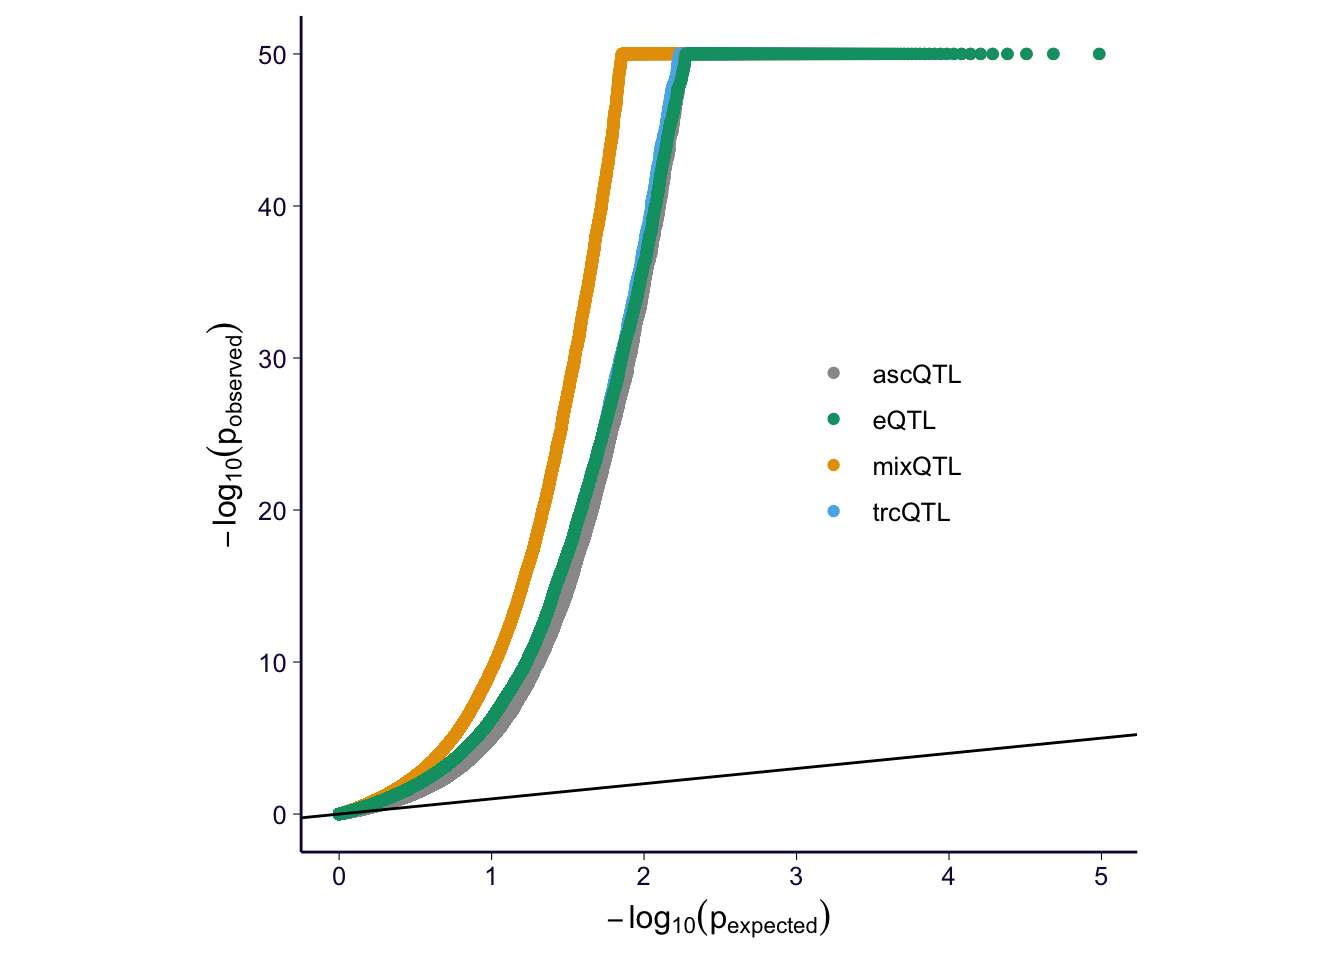
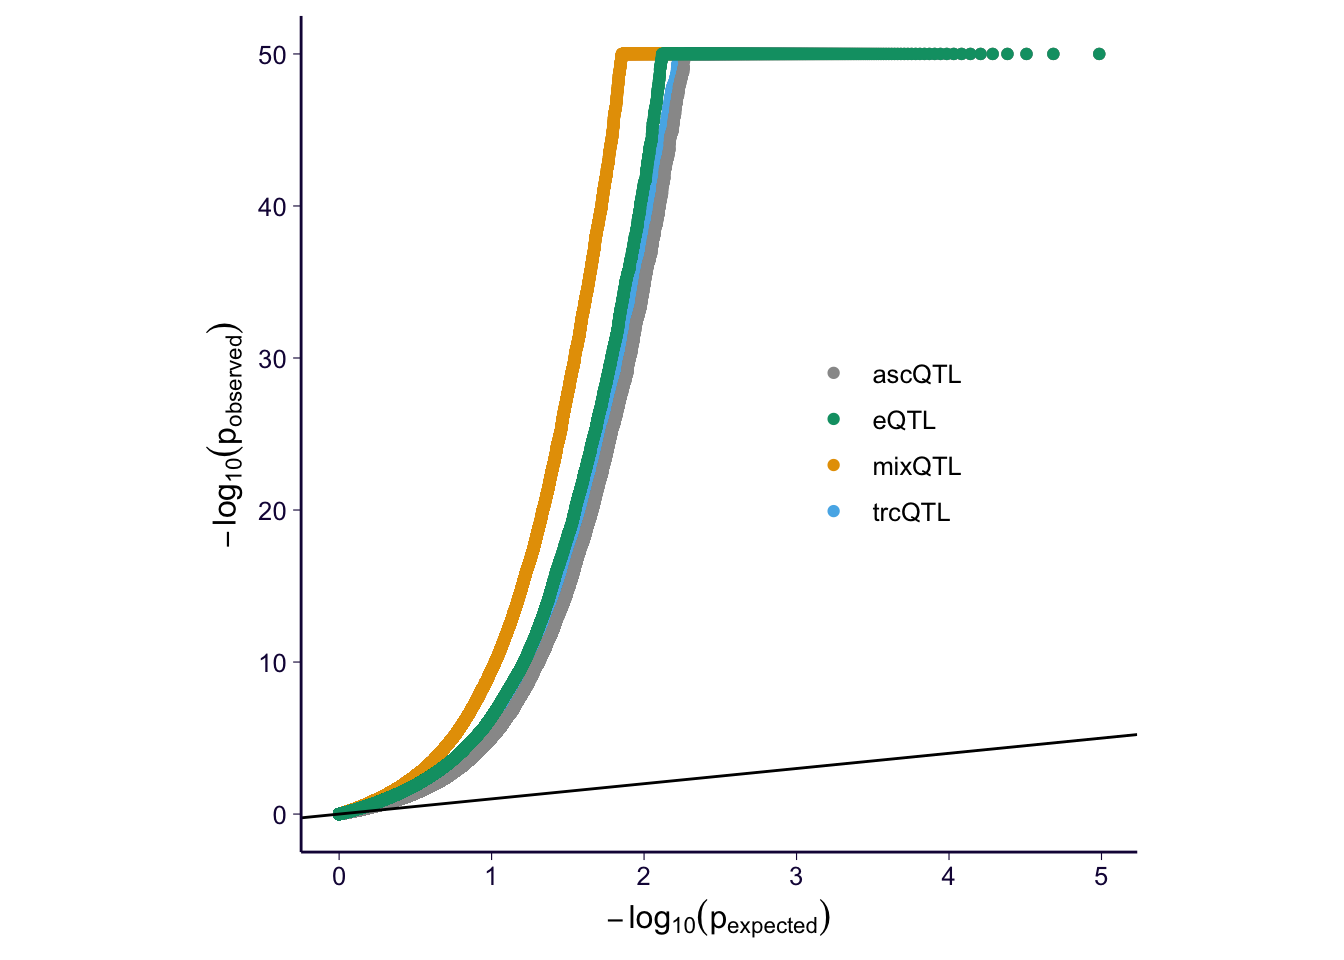
updated eqtl gen figures with eqtl computed from z-score instead of the tstat based pval

Changed region(s): [[0.4062, 0.0312, 0.5312, 0.625], [0.375, 0.6562, 0.4062, 0.7188]]

diff --git a/docs/gtex_v8_mixqtl_eqtlgen.html b/docs/gtex_v8_mixqtl_eqtlgen.html
@@ -390,6 +390,10 @@ auto_cutoff = function(score, nbin = 100) {
   cutoffs = quantile(score, probs = 0:nbin/nbin)
   cutoffs
   # c(min(score)-1, as.numeric(cutoffs), max(score) + 1)
+}
+calc_pval_from_slope = function(slope, slope_se) {
+  z = slope / slope_se
+  exp(pnorm(abs(z), lower.tail = FALSE, log.p = TRUE)) * 2
 }</code></pre>
 <div id="positive-set-eqtlgen-significant" class="section level1">
 <h1><span class="header-section-number">1</span> Positive set (eQTLGen significant)</h1>
@@ -399,6 +403,10 @@ auto_cutoff = function(score, nbin = 100) {
 df = data.frame()
 for(f in names(fnames)) {
   sub = read.table(paste0(datadir, &#39;/&#39;, fnames[[f]][1]), header = T)
+  if(f == &#39;eQTL&#39;) {
+    pval__ = calc_pval_from_slope(sub$slope, sub$slope_se)
+    sub[ ,fnames[[f]][4]] = pval__
+  }
   sub = sub[, fnames[[f]][2:4]]
   colnames(sub) = c(&#39;gene&#39;, &#39;variant&#39;, &#39;pval&#39;)
   sub$method = f
@@ -443,9 +451,11 @@ p = dfplot %&gt;% ggplot() +
   ylab(expression(paste(chi^2, &#39;(mixQTL)&#39;))) +
   theme(legend.position = &#39;bottom&#39;, legend.text = element_text(size = 8)) + 
   coord_equal()
-dfplot %&gt;% summarize(median_eqtl = median(eQTL), median_mixqtl = median(mixQTL)) %&gt;% mutate(ratio = median_mixqtl / median_eqtl)</code></pre>
+p</code></pre>
+<p><img src="gtex_v8_mixqtl_eqtlgen_files/figure-html/chisq-1.png" width="672" /></p>
+<pre class="r"><code>dfplot %&gt;% summarize(median_eqtl = median(eQTL), median_mixqtl = median(mixQTL)) %&gt;% mutate(ratio = median_mixqtl / median_eqtl)</code></pre>
 <pre><code>##   median_eqtl median_mixqtl    ratio
-## 1    2.580397       3.56258 1.380632</code></pre>
+## 1     2.58812       3.56258 1.376512</code></pre>
 <pre class="r"><code>ggsave(paste0(&#39;../output/gtex-v8-pipeline-eqtl-matrix-with-gene-qc-eqtlgen-positive-chisq.png&#39;), p, height = 4, width = 4)</code></pre>
 </div>
 </div>
@@ -457,6 +467,10 @@ dfplot %&gt;% summarize(median_eqtl = median(eQTL), median_mixqtl = median(mixQT
 df = data.frame()
 for(f in names(fnames)) {
   sub = read.table(paste0(datadir, &#39;/&#39;, fnames[[f]][1]), header = T)
+  if(f == &#39;eQTL&#39;) {
+    pval__ = calc_pval_from_slope(sub$slope, sub$slope_se)
+    sub[ ,fnames[[f]][4]] = pval__
+  }
   sub = sub[, fnames[[f]][2:4]]
   colnames(sub) = c(&#39;gene&#39;, &#39;variant&#39;, &#39;pval&#39;)
   sub$method = f
@@ -533,10 +547,10 @@ ggsave(&#39;../output/gtex-v8-pipeline-eqtl-matrix-with-gene-qc-eqtlgen-pr.png&#
 th2$panel.border = element_rect(colour = th2$axis.line$colour)
 expression_level = read.table(&#39;/Users/yanyul/Desktop/mixqtl-pipeline-results/misc_data/gtex-v8-genes-passed-qc-with-median-trc.txt&#39;, header = T)
 quantile(expression_level$median_trc, probs = 0:10/10)</code></pre>
-<pre><code>##         0%        10%        20%        30%        40%        50%        60%        70% 
-##     181.00     506.30     738.00    1018.00    1357.10    1808.50    2447.40    3456.35 
-##        80%        90%       100% 
-##    5149.10    9985.05 5893511.00</code></pre>
+<pre><code>##         0%        10%        20%        30%        40%        50%        60%        70%        80% 
+##     181.00     506.30     738.00    1018.00    1357.10    1808.50    2447.40    3456.35    5149.10 
+##        90%       100% 
+##    9985.05 5893511.00</code></pre>
 <div id="roc-by-expression-level" class="section level2">
 <h2><span class="header-section-number">4.1</span> ROC by expression level</h2>
 <pre class="r"><code>thresholds = quantile(expression_level$median_trc, probs = c(1/3, 2/3))
